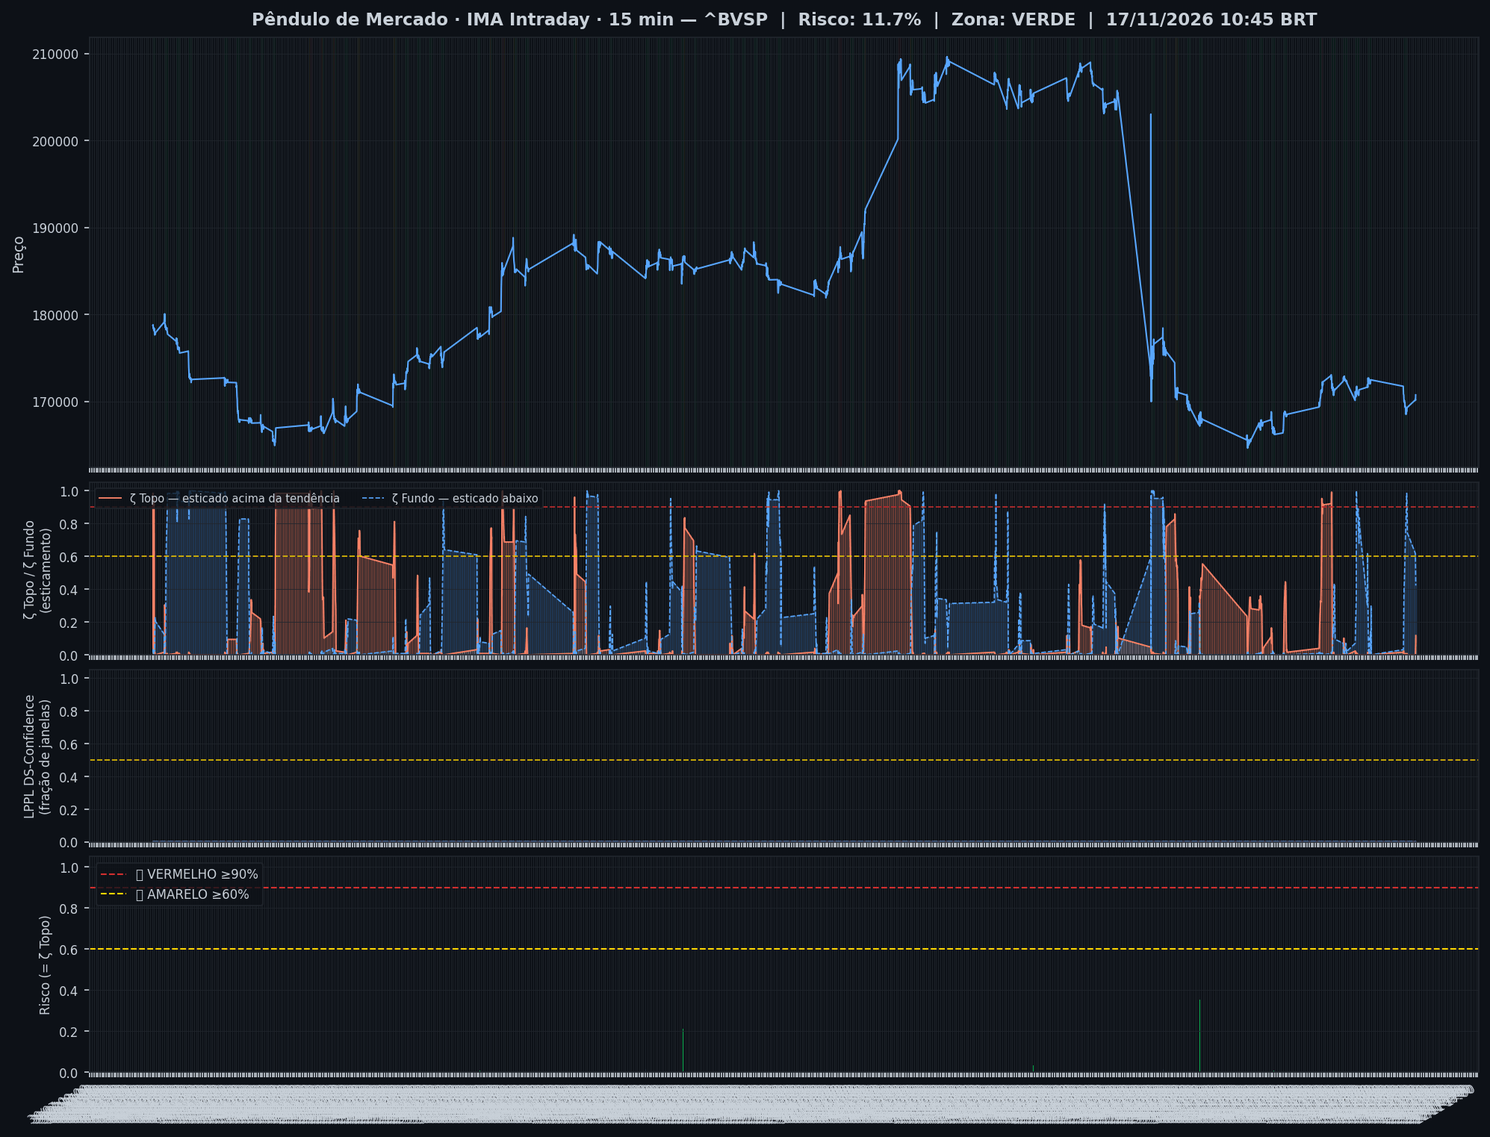
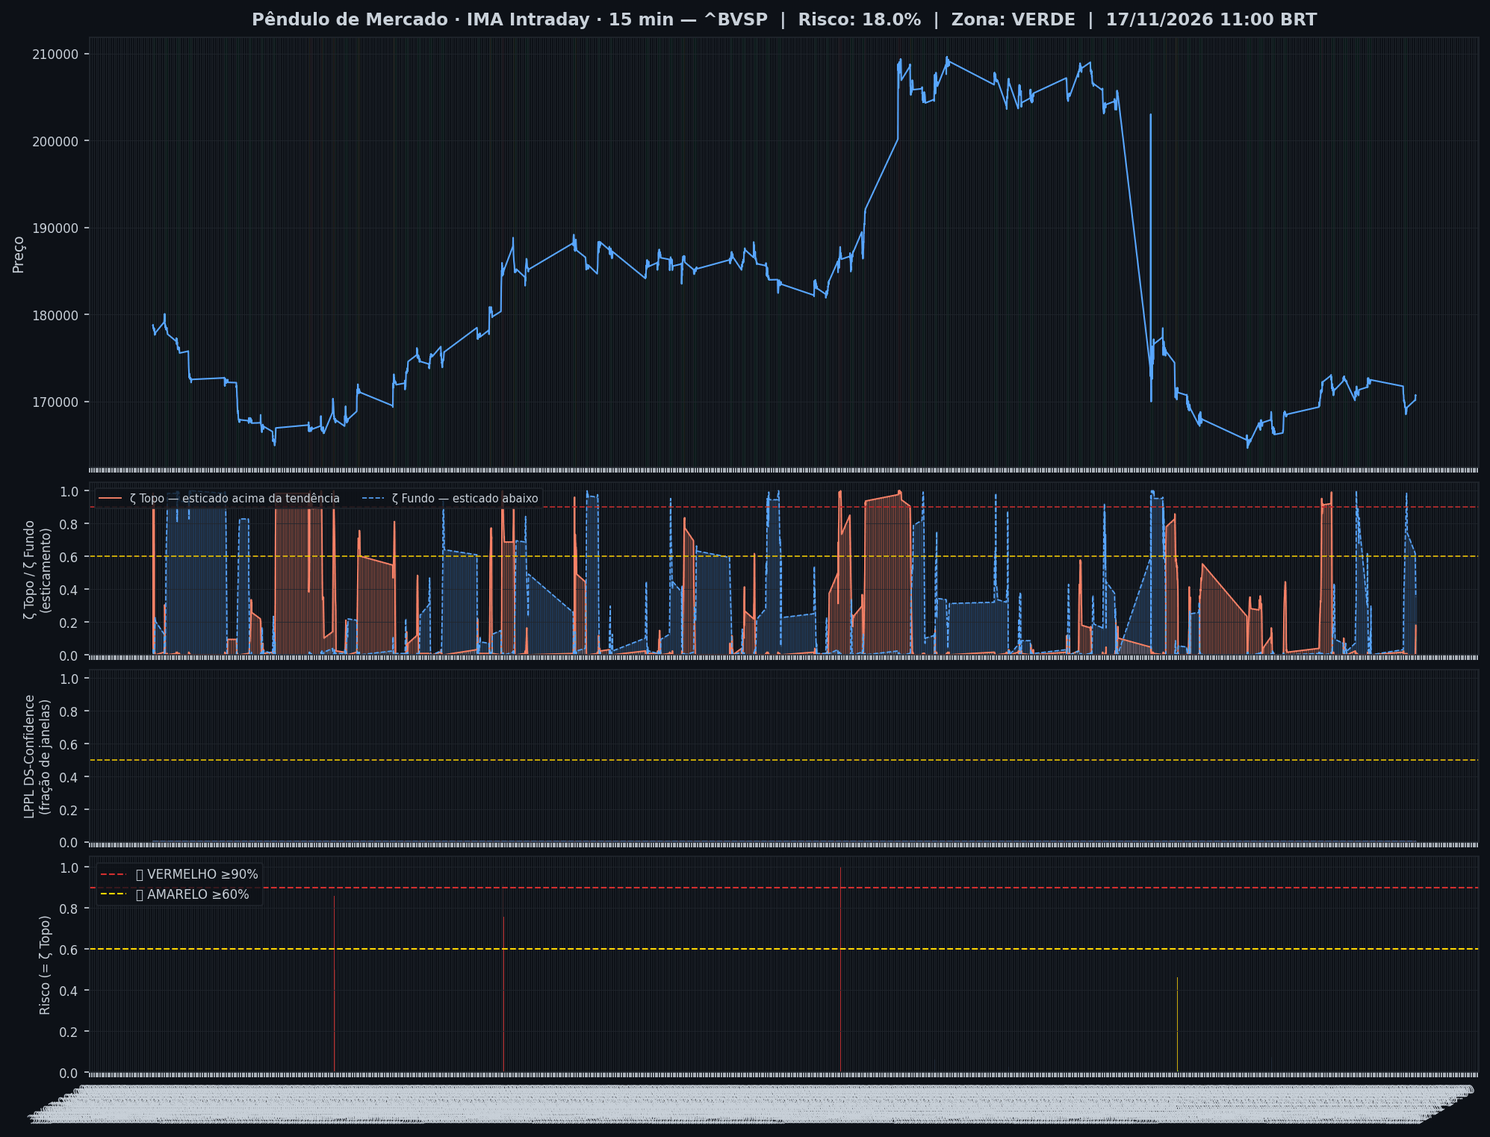
🤖 Auto: Sinal 17/11/2026 11:16

Changed region(s): [[0.7769, 0.4938, 0.8391, 0.5863], [0.5594, 0.4629, 0.5905, 0.5863]]

diff --git a/quartz.layout.ts b/quartz.layout.ts
@@ -59,7 +59,7 @@ const menuCelular = Component.Explorer({
                    "tecnico", "calendario", "juros", "inflacao-e-cambio", "operacoes",
                    "sinais-topo-fundo", "estrangeiros",
                    "adr", "ofertas", "posicionamento", "agro", "linha-do-tempo", "historico",
-                   "historico-anterior", "metodologia", "ranking", "tendencia", "entradas",
+                   "historico-anterior", "metodologia", "integridade", "horarios", "ranking", "tendencia", "entradas",
                    "ultimas-operacoes", "historico-por-ano", "todos-os-sinais", "tutorial",
                    "crise", "sinais", "regras-de-operacao", "o-que-nao-passou",
                    "avanco-declinio", "aluguel", "derivativos"]
@@ -227,12 +227,12 @@ const grupos = [
   grupo(
     "8 · Como isso funciona",
     (node) => {
-      const dentro = ["metodologia"]
+      const dentro = ["metodologia", "integridade", "horarios"]
       const s = node.slug ?? ""
       return dentro.some((d) => s === d || s.startsWith(d + "/"))
     },
     (a, b) => {
-      const ordem = ["metodologia", "crise", "sinais", "regras-de-operacao",
+      const ordem = ["metodologia", "integridade", "horarios", "crise", "sinais", "regras-de-operacao",
                      "o-que-nao-passou"]
       const ia = ordem.indexOf(a.slugSegment)
       const ib = ordem.indexOf(b.slugSegment)

diff --git a/content/juros/index.md b/content/juros/index.md
@@ -3,7 +3,7 @@ title: "📉 Juros: o que o mercado paga × o que os economistas esperam"
 date: 2026-11-16
 ---
 
-*Curva da B3 de 16/11/2026 · Focus de 13/11/2026 · atualizado em 17/11/2026 10:43*
+*Curva da B3 de 16/11/2026 · Focus de 13/11/2026 · atualizado em 17/11/2026 11:11*
 
 
 <!-- NOTAS-INICIO -->
@@ -69,52 +69,57 @@ diferença e mostra onde ela está maior.
 ## A curva de DI de hoje
 Cada linha é um vencimento. A taxa é a média de CDI que o mercado aceita de hoje até aquela data — não é a Selic prevista para aquele dia.
 
-| Vencimento | Contrato | Dias úteis | Taxa (% a.a.) | PU (ajuste) | PU no dia (p.b.) |
-|---|---|---|---|---|---|
-| 01/12/2026 | DI1Z26 | 10 | 13,651% | 99.493,50 | -0,0 |
-| 04/01/2027 | DI1F27 | 32 | 13,705% | 98.382,28 | -0,4 |
-| 01/02/2027 | DI1G27 | 52 | 13,744% | 97.377,63 | -1,0 |
-| 01/03/2027 | DI1H27 | 70 | 13,816% | 96.469,04 | -2,1 |
-| 01/04/2027 | DI1J27 | 92 | 13,890% | 95.362,64 | -3,6 |
-| 03/05/2027 | DI1K27 | 113 | 13,970% | 94.304,93 | -5,8 |
-| 01/06/2027 | DI1M27 | 133 | 14,062% | 93.291,54 | -8,1 |
-| 01/07/2027 | DI1N27 | 155 | 14,166% | 92.174,40 | -10,8 |
-| 02/08/2027 | DI1Q27 | 177 | 14,248% | 91.068,51 | -14,0 |
-| 01/09/2027 | DI1U27 | 199 | 14,320% | 89.970,87 | -16,7 |
-| 01/10/2027 | DI1V27 | 220 | 14,388% | 88.926,85 | -19,1 |
-| 01/11/2027 | DI1X27 | 240 | 14,445% | 87.941,43 | -22,7 |
-| 01/12/2027 | DI1Z27 | 260 | 14,493% | 86.967,12 | -24,9 |
-| 03/01/2028 | DI1F28 | 283 | 14,556% | 85.846,39 | -28,1 |
-| 03/04/2028 | DI1J28 | 346 | 14,706% | 82.829,93 | -36,6 |
-| 03/07/2028 | DI1N28 | 407 | 14,842% | 79.971,00 | -46,5 |
-| 02/10/2028 | DI1V28 | 471 | 14,930% | 77.098,71 | -53,8 |
-| 01/11/2028 | DI1X28 | 492 | 14,964% | 76.165,83 | -59,4 |
-| 01/12/2028 | DI1Z28 | 511 | 14,990% | 75.334,66 | -61,3 |
-| 02/01/2029 | DI1F29 | 531 | 15,013% | 74.472,77 | -62,2 |
-| 02/04/2029 | DI1J29 | 592 | 15,087% | 71.884,74 | -68,7 |
-| 02/07/2029 | DI1N29 | 655 | 15,149% | 69.306,21 | -74,6 |
-| 01/10/2029 | DI1V29 | 719 | 15,174% | 66.825,93 | -79,4 |
-| 01/11/2029 | DI1X29 | 741 | 15,188% | 65.983,22 | -81,6 |
-| 03/12/2029 | DI1Z29 | 760 | 15,193% | 65.274,98 | -83,4 |
-| 02/01/2030 | DI1F30 | 780 | 15,204% | 64.527,27 | -85,3 |
-| 01/04/2030 | DI1J30 | 841 | 15,214% | 62.335,93 | -89,7 |
-| 01/07/2030 | DI1N30 | 903 | 15,229% | 60.173,26 | -91,0 |
-| 01/10/2030 | DI1V30 | 969 | 15,236% | 57.966,73 | -95,0 |
-| 02/01/2031 | DI1F31 | 1.032 | 15,253% | 55.913,85 | -98,0 |
-| 01/04/2031 | DI1J31 | 1.093 | 15,256% | 54.019,01 | -101,5 |
-| 01/07/2031 | DI1N31 | 1.154 | 15,273% | 52.158,71 | -100,4 |
-| 01/10/2031 | DI1V31 | 1.220 | 15,287% | 50.223,24 | -104,9 |
-| 02/01/2032 | DI1F32 | 1.284 | 15,317% | 48.376,98 | -108,6 |
-| 03/01/2033 | DI1F33 | 1.536 | 15,351% | 41.875,98 | -121,5 |
-| 02/01/2034 | DI1F34 | 1.787 | 15,363% | 36.296,89 | -135,2 |
-| 02/01/2035 | DI1F35 | 2.035 | 15,348% | 31.567,78 | -144,9 |
-| 02/01/2036 | DI1F36 | 2.284 | 15,311% | 27.493,82 | -158,7 |
-| 02/01/2037 | DI1F37 | 2.537 | 15,299% | 23.854,69 | -171,9 |
-| 04/01/2038 | DI1F38 | 2.786 | 15,283% | 20.756,33 | -188,7 |
-| 03/01/2039 | DI1F39 | 3.037 | 15,253% | 18.071,44 | -205,6 |
-| 02/01/2040 | DI1F40 | 3.288 | 15,235% | 15.720,64 | -222,5 |
-| 02/01/2041 | DI1F41 | 3.538 | 15,226% | 13.672,59 | -239,3 |
+| Vencimento | Contrato | Dias úteis | Taxa (% a.a.) | PU (ajuste) | PU no dia (p.b.) | Em aberto |
+|---|---|---|---|---|---|---|
+| 01/12/2026 | DI1Z26 | 10 | 13,651% | 99.493,50 | -0,0 | 2.072.815 |
+| 04/01/2027 | DI1F27 | 32 | 13,705% | 98.382,28 | -0,4 | 8.158.996 |
+| 01/02/2027 | DI1G27 | 52 | 13,744% | 97.377,63 | -1,0 | 479.566 |
+| 01/03/2027 | DI1H27 | 70 | 13,816% | 96.469,04 | -2,1 | 507.794 |
+| 01/04/2027 | DI1J27 | 92 | 13,890% | 95.362,64 | -3,6 | 2.740.377 |
+| 03/05/2027 | DI1K27 | 113 | 13,970% | 94.304,93 | -5,8 | 377.406 |
+| 01/06/2027 | DI1M27 | 133 | 14,062% | 93.291,54 | -8,1 | 177.381 |
+| 01/07/2027 | DI1N27 | 155 | 14,166% | 92.174,40 | -10,8 | 3.056.751 |
+| 02/08/2027 | DI1Q27 | 177 | 14,248% | 91.068,51 | -14,0 | 127.798 |
+| 01/09/2027 | DI1U27 | 199 | 14,320% | 89.970,87 | -16,7 | 93.218 |
+| 01/10/2027 | DI1V27 | 220 | 14,388% | 88.926,85 | -19,1 | 1.304.113 |
+| 01/11/2027 | DI1X27 | 240 | 14,445% | 87.941,43 | -22,7 | 138.002 |
+| 01/12/2027 | DI1Z27 | 260 | 14,493% | 86.967,12 | -24,9 | 133.705 |
+| 03/01/2028 | DI1F28 | 283 | 14,556% | 85.846,39 | -28,1 | 5.134.598 |
+| 03/04/2028 | DI1J28 | 346 | 14,706% | 82.829,93 | -36,6 | 622.572 |
+| 03/07/2028 | DI1N28 | 407 | 14,842% | 79.971,00 | -46,5 | 995.686 |
+| 02/10/2028 | DI1V28 | 471 | 14,930% | 77.098,71 | -53,8 | 657.594 |
+| 01/11/2028 | DI1X28 | 492 | 14,964% | 76.165,83 | -59,4 | 37.705 |
+| 01/12/2028 | DI1Z28 | 511 | 14,990% | 75.334,66 | -61,3 | 45.416 |
+| 02/01/2029 | DI1F29 | 531 | 15,013% | 74.472,77 | -62,2 | 3.866.772 |
+| 02/04/2029 | DI1J29 | 592 | 15,087% | 71.884,74 | -68,7 | 228.678 |
+| 02/07/2029 | DI1N29 | 655 | 15,149% | 69.306,21 | -74,6 | 2.386.113 |
+| 01/10/2029 | DI1V29 | 719 | 15,174% | 66.825,93 | -79,4 | 157.591 |
+| 01/11/2029 | DI1X29 | 741 | 15,188% | 65.983,22 | -81,6 | 16.018 |
+| 03/12/2029 | DI1Z29 | 760 | 15,193% | 65.274,98 | -83,4 | 16.002 |
+| 02/01/2030 | DI1F30 | 780 | 15,204% | 64.527,27 | -85,3 | 1.868.334 |
+| 01/04/2030 | DI1J30 | 841 | 15,214% | 62.335,93 | -89,7 | 101.029 |
+| 01/07/2030 | DI1N30 | 903 | 15,229% | 60.173,26 | -91,0 | 153.597 |
+| 01/10/2030 | DI1V30 | 969 | 15,236% | 57.966,73 | -95,0 | 68.740 |
+| 02/01/2031 | DI1F31 | 1.032 | 15,253% | 55.913,85 | -98,0 | 2.974.975 |
+| 01/04/2031 | DI1J31 | 1.093 | 15,256% | 54.019,01 | -101,5 | 89.969 |
+| 01/07/2031 | DI1N31 | 1.154 | 15,273% | 52.158,71 | -100,4 | 72.454 |
+| 01/10/2031 | DI1V31 | 1.220 | 15,287% | 50.223,24 | -104,9 | 39.308 |
+| 02/01/2032 | DI1F32 | 1.284 | 15,317% | 48.376,98 | -108,6 | 1.368.194 |
+| 03/01/2033 | DI1F33 | 1.536 | 15,351% | 41.875,98 | -121,5 | 774.918 |
+| 02/01/2034 | DI1F34 | 1.787 | 15,363% | 36.296,89 | -135,2 | 344.889 |
+| 02/01/2035 | DI1F35 | 2.035 | 15,348% | 31.567,78 | -144,9 | 789.419 |
+| 02/01/2036 | DI1F36 | 2.284 | 15,311% | 27.493,82 | -158,7 | 114.751 |
+| 02/01/2037 | DI1F37 | 2.537 | 15,299% | 23.854,69 | -171,9 | 332.036 |
+| 04/01/2038 | DI1F38 | 2.786 | 15,283% | 20.756,33 | -188,7 | 55.082 |
+| 03/01/2039 | DI1F39 | 3.037 | 15,253% | 18.071,44 | -205,6 | 45.800 |
+| 02/01/2040 | DI1F40 | 3.288 | 15,235% | 15.720,64 | -222,5 | 48.734 |
+| 02/01/2041 | DI1F41 | 3.538 | 15,226% | 13.672,59 | -239,3 | 24.622 |
 
+
+**Onde o mercado está, de fato.** A coluna *Em aberto* é o número de contratos em posição no fim do pregão. Ela importa porque os vencimentos da tabela não têm o mesmo peso: preço de contrato com posição pequena é preço que quase ninguém sustentou com dinheiro.
+**Medido hoje.** A posição se concentra em DI1F27 (8.158.996), DI1F28 (5.134.598), DI1F29 (3.866.772), que juntos somam **40,1%** dos 42.799.518 contratos em aberto na curva. Outros 25 vencimento(s) têm menos de 1% do total cada um.
+**Leitura.** Concentração assim é normal no DI: a liquidez se junta em poucos vértices, e os demais vencimentos existem mais para fechar a curva do que para negociar. Na prática, um movimento de taxa num vencimento magro diz menos sobre expectativa do que o mesmo movimento num vértice cheio, e interpolar entre dois pontos magros é interpolar entre dois preços frouxos. Isto é leitura de risco, não recomendação: o risco é de quem opera.
+*Travessão na coluna quer dizer que a B3 ainda não publicou a posição daquele dia — ela sai só na manhã seguinte ao pregão —, e não que a posição seja zero.*
 
 ## O caminho que o Focus projeta
 A Selic esperada em cada reunião do Copom, pela mediana das instituições.

diff --git a/content/intraday/2026-11-17.md b/content/intraday/2026-11-17.md
@@ -1,11 +1,11 @@
 ---
-title: "🟢 Intraday 17/11/2026 10:45 BRT — VERDE"
+title: "🟢 Intraday 17/11/2026 11:00 BRT — VERDE"
 date: 2026-11-17
 tags: [intraday]
 ---
 
-> [!success] Onde o mercado está agora (17/11 10:45, candles de 15 min): **🟢 Calmo**
-> `Pânico ◀───────●─────────────▶ Euforia`
+> [!success] Onde o mercado está agora (17/11 11:00, candles de 15 min): **🟢 Calmo**
+> `Pânico ◀────────●────────────▶ Euforia`
 >
 > O Ibovespa está dentro da sua faixa normal, sem excesso para cima nem para baixo.
 > No gráfico diário: 🌱 Fundo se desfazendo.
@@ -20,8 +20,8 @@ tags: [intraday]
 > | 📍 **Sinais** | hoje: nenhum sinal | [abrir](sinais-topo-fundo/) |
 > | 🧪 **Placar ao vivo** | 1 operação(ões), 0 com lucro, soma -0,8% | [abrir](operacoes/) |
 
-> [!success] IMA Intraday · 15 min (17/11 10:45): 🟢 **VERDE** — Risco 12% · ▲ +5 p.p. vs leitura anterior
-> `██░░░░░░░░░░░░░░░░░░`
+> [!success] IMA Intraday · 15 min (17/11 11:00): 🟢 **VERDE** — Risco 18% · ▲ +6 p.p. vs leitura anterior
+> `████░░░░░░░░░░░░░░░░`
 > Preço na faixa normal em torno da tendência.
 
 
@@ -32,13 +32,13 @@ tags: [intraday]
 >
 > *Leitura educacional baseada em 26 anos de dados, não recomendação. [Como usar](../metodologia/crise#3-como-usar-na-prática).*
 
-| Indicador — IMA Intraday · 15 min (17/11 10:45) | Valor |
+| Indicador — IMA Intraday · 15 min (17/11 11:00) | Valor |
 |---|---|
-| 🔴 ζ Topo — preço esticado acima da tendência | **12%** |
-| 🔵 ζ Fundo — preço esticado abaixo da tendência | 42% |
+| 🔴 ζ Topo — preço esticado acima da tendência | **18%** |
+| 🔵 ζ Fundo — preço esticado abaixo da tendência | 35% |
 | 🫧 LPPL bolha — alta super-exponencial (risco de crash) | 0% |
 | 🫧 LPPL antibolha — queda super-exponencial (risco de repique) | 0% |
-| 📊 Ibovespa | 170.738 pts |
+| 📊 Ibovespa | 170.690 pts |
 
 ![Gráfico do sinal](../graficos/sinal_intraday.png)
 
@@ -46,6 +46,7 @@ tags: [intraday]
 
 | Data | Zona | Evento | Risco | ζ Topo | ζ Fundo | LPPL |
 |---|---|---|---|---|---|---|
+| 2026-11-17 11:00 | 🟢 VERDE |  | **18%** | 18% | 35% | 0% |
 | 2026-11-17 10:45 | 🟢 VERDE |  | **12%** | 12% | 42% | 0% |
 | 2026-11-17 10:30 | 🟢 VERDE |  | **7%** | 7% | 49% | 0% |
 | 2026-11-17 10:15 | 🟢 VERDE |  | **3%** | 3% | 55% | 0% |
@@ -75,48 +76,47 @@ tags: [intraday]
 | 2026-11-16 12:30 | 🟢 VERDE |  | **0%** | 0% | 51% | 0% |
 | 2026-11-16 12:15 | 🟢 VERDE |  | **0%** | 0% | 48% | 0% |
 | 2026-11-16 12:00 | 🟢 VERDE |  | **0%** | 0% | 46% | 0% |
-| 2026-11-16 11:45 | 🟢 VERDE |  | **0%** | 0% | 43% | 0% |
 
 <small>Destaques: 🟡 ≥ 60% · 🔴 ≥ 90% (Risco e ζ Topo) · 🔵 ≥ 60% · 🔪 ≥ 90% (ζ Fundo) · 🫧 ≥ 30% · 🫧🔴 ≥ 50% (LPPL)</small>
 
 ## Monitor Multi-Ativo
 
-**0% dos ativos em tensão** (0🔴 1🟡) · **0 com ζ Fundo alto** — quanto mais ativos disparam juntos, mais confiável o sinal.
+**0% dos ativos em tensão** (0🔴 0🟡) · **0 com ζ Fundo alto** — quanto mais ativos disparam juntos, mais confiável o sinal.
 
 | Zona | Ativo | Setor | ζ Topo | ζ Fundo |
 |---|---|---|---|---|
-| 🟢 | **PRIO** | Petróleo | 55.5% | 0.0% |
-| 🟢 | **ITAUUNIBANCO** | Financeiro | 2.3% | 53.9% |
-| 🟡 | **USD/BRL** | Câmbio | 51.6% | 1.6% |
-| 🟢 | **ITAUSA** | Financeiro | 3.9% | 50.8% |
-| 🟢 | **VALE** | Mineração | 0.0% | 32.8% |
-| 🟢 | **COPEL** | Energia | 1.6% | 32.0% |
-| 🟢 | **REDE D OR** | Saúde | 28.9% | 0.0% |
-| 🟢 | **GERDAU** | Siderurgia | 23.4% | 0.0% |
-| 🟢 | **EMBRAER** | Outros | 0.8% | 21.1% |
-| 🟢 | **WEG** | Industrial | 19.5% | 1.6% |
-| 🟢 | **AXIA ENERGIA** | Energia | 4.7% | 17.2% |
-| 🟢 | **PETROBRAS** | Petróleo | 15.6% | 0.8% |
-| 🟢 | **TELEF BRASIL** | Outros | 14.8% | 0.0% |
-| 🟢 | **ENEVA** | Energia | 13.3% | 1.6% |
-| 🟢 | **AMBEV S/A** | Consumo | 11.7% | 1.6% |
-| 🟢 | **LOCALIZA** | Aluguel | 8.6% | 0.8% |
-| 🟢 | **PETROBRAS** | Petróleo | 7.8% | 0.0% |
-| 🟢 | **BRADESCO** | Financeiro | 7.8% | 1.6% |
-| 🟢 | **EQUATORIAL** | Energia | 7.8% | 0.0% |
-| 🟢 | **VIBRA** | Energia | 7.8% | 0.0% |
-| 🟢 | **SUZANO S.A.** | Papel/Celulose | 7.8% | 2.3% |
-| 🟢 | **BTGP BANCO** | Financeiro | 7.0% | 0.0% |
-| 🟢 | **ULTRAPAR** | Outros | 7.0% | 0.0% |
-| 🟢 | **SABESP** | Saneamento | 5.5% | 0.0% |
-| 🟢 | **BRASIL** | Financeiro | 3.1% | 3.9% |
-| 🟢 | **B3** | Financeiro | 3.1% | 0.0% |
+| 🟢 | **PRIO** | Petróleo | 59.4% | 0.0% |
+| 🟢 | **REDE D OR** | Saúde | 50.0% | 0.0% |
+| 🟢 | **ITAUUNIBANCO** | Financeiro | 2.3% | 49.2% |
+| 🟢 | **ITAUSA** | Financeiro | 3.9% | 48.4% |
+| 🟢 | **USD/BRL** | Câmbio | 44.5% | 1.6% |
+| 🟢 | **WEG** | Industrial | 32.8% | 0.0% |
+| 🟢 | **VALE** | Mineração | 0.0% | 27.3% |
+| 🟢 | **GERDAU** | Siderurgia | 26.6% | 0.0% |
+| 🟢 | **COPEL** | Energia | 1.6% | 25.8% |
+| 🟢 | **PETROBRAS** | Petróleo | 21.1% | 0.0% |
+| 🟢 | **TELEF BRASIL** | Outros | 19.5% | 0.0% |
+| 🟢 | **ENEVA** | Energia | 16.4% | 0.8% |
+| 🟢 | **AMBEV S/A** | Consumo | 12.5% | 1.6% |
+| 🟢 | **LOCALIZA** | Aluguel | 12.5% | 1.6% |
+| 🟢 | **EMBRAER** | Outros | 0.8% | 11.7% |
+| 🟢 | **AXIA ENERGIA** | Energia | 10.2% | 7.0% |
+| 🟢 | **BRADESCO** | Financeiro | 10.2% | 0.0% |
+| 🟢 | **EQUATORIAL** | Energia | 10.2% | 0.0% |
+| 🟢 | **SUZANO S.A.** | Papel/Celulose | 10.2% | 0.8% |
+| 🟢 | **PETROBRAS** | Petróleo | 9.4% | 0.0% |
+| 🟢 | **VIBRA** | Energia | 9.4% | 0.0% |
+| 🟢 | **SABESP** | Saneamento | 7.8% | 0.0% |
+| 🟢 | **BTGP BANCO** | Financeiro | 7.8% | 0.8% |
+| 🟢 | **BRASIL** | Financeiro | 0.8% | 6.2% |
+| 🟢 | **ULTRAPAR** | Outros | 6.2% | 0.0% |
+| 🟢 | **B3** | Financeiro | 3.9% | 1.6% |
 
 <small>Destaques: 🟡 ≥ 60% · 🔴 ≥ 90% (Risco e ζ Topo) · 🔵 ≥ 60% · 🔪 ≥ 90% (ζ Fundo) · 🫧 ≥ 30% · 🫧🔴 ≥ 50% (LPPL)</small>
 
 ![Monitor multi-ativo](../graficos/multi_intraday.png)
 
-*Página atualizada em 17/11/2026 11:01 BRT (leitura da barra de 2026-11-17 10:45 BRT).*
+*Página atualizada em 17/11/2026 11:15 BRT (leitura da barra de 2026-11-17 11:00 BRT).*
 
 > [!warning] O que este indicador não faz
 > Medido em 5 anos de Ibovespa, o ζ **não antecipa** topos nem fundos: a capacidade de separar o que sobe do que cai ficou em 0,49–0,52, e 0,50 é moeda jogada ao ar. Ele descreve o estado de agora; não é aviso do que vem. As zonas verde/amarelo/vermelho continuam na página como descrição desse estado — **não as use como sinal de entrada ou saída**.

diff --git a/content/index.md b/content/index.md
@@ -6,10 +6,10 @@ tags: [home]
 
 **As ondas do mercado, explicadas.** Leitura do Ibovespa com estatística de 26 anos, baseada no trabalho de pesquisadores e traders reconhecidos e adaptada por Jarbas Daniel da Costa.
 
-*Última atualização: 17/11/2026 11:01 BRT · Intraday 15min*
+*Última atualização: 17/11/2026 11:15 BRT · Intraday 15min*
 
-> [!success] Onde o mercado está agora (17/11 10:45, candles de 15 min): **🟢 Calmo**
-> `Pânico ◀───────●─────────────▶ Euforia`
+> [!success] Onde o mercado está agora (17/11 11:00, candles de 15 min): **🟢 Calmo**
+> `Pânico ◀────────●────────────▶ Euforia`
 >
 > O Ibovespa está dentro da sua faixa normal, sem excesso para cima nem para baixo.
 > No gráfico diário: 🌱 Fundo se desfazendo.
@@ -20,7 +20,7 @@ tags: [home]
 
 | Módulo | Agora | |
 |---|---|---|
-| 🌊 **Sinal IMA** | 🟢 VERDE · 🟢 calmo · ζ Topo 12% | [relatório](intraday/2026-11-17) |
+| 🌊 **Sinal IMA** | 🟢 VERDE · 🟢 calmo · ζ Topo 18% | [relatório](intraday/2026-11-17) |
 | 📈 **Tendência MME9** | Diário — fora<br>Semanal — fora | [abrir](operacoes/tendencia) |
 | 🎯 **Entradas do método** | ⏳ aguardando: Diário · Nadaraya, Diário · Semáforo N3 após ζ Fundo | [abrir](operacoes/entradas) |
 | 📍 **Sinais** | hoje: nenhum sinal | [abrir](sinais-topo-fundo/) |
@@ -44,26 +44,26 @@ tags: [home]
 > *Leitura educacional baseada em 26 anos de dados, não recomendação. [Como usar](metodologia/crise#3-como-usar-na-prática).*
 
 > [!info]- 🌊 Detalhes do Sinal IMA (indicadores e últimos 7 pregões)
-> > [!success] IMA Intraday · 15 min (17/11 10:45): 🟢 **VERDE** — Risco 12% · ▲ +5 p.p. vs leitura anterior
-> > `██░░░░░░░░░░░░░░░░░░`
+> > [!success] IMA Intraday · 15 min (17/11 11:00): 🟢 **VERDE** — Risco 18% · ▲ +6 p.p. vs leitura anterior
+> > `████░░░░░░░░░░░░░░░░`
 > > Preço na faixa normal em torno da tendência.
 >
 >
-> | Indicador — IMA Intraday · 15 min (17/11 10:45) | Valor |
+> | Indicador — IMA Intraday · 15 min (17/11 11:00) | Valor |
 > |---|---|
-> | 🔴 ζ Topo — preço esticado acima da tendência | **12%** |
-> | 🔵 ζ Fundo — preço esticado abaixo da tendência | 42% |
+> | 🔴 ζ Topo — preço esticado acima da tendência | **18%** |
+> | 🔵 ζ Fundo — preço esticado abaixo da tendência | 35% |
 > | 🫧 LPPL bolha — alta super-exponencial (risco de crash) | 0% |
 > | 🫧 LPPL antibolha — queda super-exponencial (risco de repique) | 0% |
-> | 📊 Ibovespa | 170.738 pts |
+> | 📊 Ibovespa | 170.690 pts |
 >
-> **Multi-ativo:** 0% em tensão (0🔴 1🟡 de 26 ativos)
+> **Multi-ativo:** 0% em tensão (0🔴 0🟡 de 26 ativos)
 >
 > **Últimos 7 pregões**
 >
 > | Data | Zona | Risco | ζ Topo | ζ Fundo | LPPL |
 > |---|---|---|---|---|---|
-> | [17/11/2026](intraday/2026-11-17) | 🟢 VERDE | **12%** | 12% | 42% | 0% |
+> | [17/11/2026](intraday/2026-11-17) | 🟢 VERDE | **18%** | 18% | 35% | 0% |
 > | [16/11/2026](intraday/2026-11-16) | 🟢 VERDE | **0%** | 0% | 🔵 **74%** | 0% |
 >
 > <small>Destaques: 🟡 ≥ 60% · 🔴 ≥ 90% (Risco e ζ Topo) · 🔵 ≥ 60% · 🔪 ≥ 90% (ζ Fundo) · 🫧 ≥ 30% · 🫧🔴 ≥ 50% (LPPL)</small>

diff --git a/content/integridade/index.md b/content/integridade/index.md
@@ -5,7 +5,7 @@ description: "O que foi conferido, contra qual fonte e quando — medido na hora
 tags: [integridade]
 ---
 
-*Pregão conferido: **16/11/2026**, com 59 tabelas no acervo · página gerada em 17/11/2026 11:01*
+*Pregão conferido: **16/11/2026**, com 59 tabelas no acervo · página gerada em 17/11/2026 11:15*
 
 O pregão conferido é o último **fechado e arquivado inteiro**, não o de hoje: enquanto o dia corre, só algumas tabelas estão gravadas, e conferir um dia pela metade produziria alarme falso.
 
@@ -19,7 +19,7 @@ Esta página não declara que o site está correto. Ela **mede** e escreve o res
 | Tabelas incompletas | **nenhuma** |
 | Tabelas sem alvo publicado pela B3 | 26 — não há como conferir |
 | Páginas publicadas | 351 |
-| Página escrita mais recentemente | 17/11 11:01 |
+| Página escrita mais recentemente | 17/11 11:15 |
 | Páginas sem data no cabeçalho | 8 — cegas para a conferência de dado |
 
 ## 1 · Acervo do boletim diário

diff --git a/content/historico.md b/content/historico.md
@@ -5,7 +5,7 @@ tags: [historico]
 
 # 📜 Histórico de leituras (v5)
 
-**2.418 leituras** desde 2026-07-03. Na página ficam os últimos 3 dias leitura por leitura e o resumo de cada dia anterior; o registro inteiro está no arquivo para baixar.
+**2.419 leituras** desde 2026-07-03. Na página ficam os últimos 3 dias leitura por leitura e o resumo de cada dia anterior; o registro inteiro está no arquivo para baixar.
 
 [**Baixar o histórico completo**](historico-completo.csv) (106 KB · abre no Excel e no LibreOffice)
 
@@ -16,6 +16,7 @@ tags: [historico]
 
 | Data | Modo | Zona | Risco | IMA | LPPL |
 |---|---|---|---|---|---|
+| 2026-11-17 11:00 | intraday | 🟢 VERDE | 18% | 18% | 0% |
 | 2026-11-17 10:45 | intraday | 🟢 VERDE | 12% | 12% | 0% |
 | 2026-11-17 10:30 | intraday | 🟢 VERDE | 7% | 7% | 0% |
 | 2026-11-17 10:15 | intraday | 🟢 VERDE | 3% | 3% | 0% |

diff --git a/content/operacoes/ranking.md b/content/operacoes/ranking.md
@@ -5,7 +5,7 @@ tags: [operacoes]
 description: "As regras de compra do site ordenadas pelo resultado, com treino, teste e placar ao vivo"
 ---
 
-*Atualizado 17/11/2026 11:01 · histórico simulado com as regras congeladas em 23/10/2026 + placar ao vivo.*
+*Atualizado 17/11/2026 11:15 · histórico simulado com as regras congeladas em 23/10/2026 + placar ao vivo.*
 
 As regras de compra do site, **da que mais rendeu para a que menos rendeu**. O resultado é por operação, no índice à vista, sem custos e sem juros compostos (a soma é só a soma das operações). **Treino** = entradas de 2001 a 2013 e **teste** = 2014 em diante: uma regra só é confiável se ganhou nos dois. O único resultado sem nenhum ajuste ao histórico é o **placar ao vivo**.
 

diff --git a/content/linha-do-tempo/index.md b/content/linha-do-tempo/index.md
@@ -5,7 +5,7 @@ description: "Todo sinal, ordem, stop e aviso do Pêndulo de Mercado, do mais re
 tags: [eventos]
 ---
 
-*Atualizada 17/11/2026 11:01 BRT · a cada 15 min no pregão e às 19h.*
+*Atualizada 17/11/2026 11:15 BRT · a cada 15 min no pregão e às 19h.*
 
 Tudo o que o sistema fez ou detectou, **do mais recente para o mais antigo**: sinais de topo e fundo, ordens de compra e de venda armadas, compras, vendas, stops, avisos de 🚨 preço perto do nível e mudanças do Sinal IMA. Os **últimos 7 dias** ficam abertos; o resto, por **ano → mês → dia**.
 

diff --git a/content/avisos/index.md b/content/avisos/index.md
@@ -2,7 +2,7 @@
 title: "⚠ Avisos: o que saber antes de usar os números"
 ---
 
-*Gerado em 17/11/2026 11:01*
+*Gerado em 17/11/2026 11:15*
 
 Este site publica muitos números, e cada um tem uma limitação que importa na hora de
 decidir. As limitações estão escritas nas próprias páginas, mas quem chega direto numa
